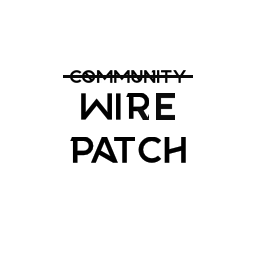
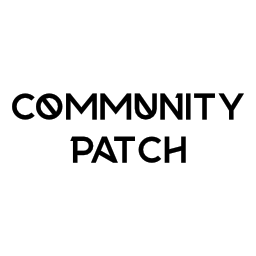
ValheimWirePatches 0.1.1

Changed region(s): [[0.0312, 0.25, 0.9688, 0.4688], [0.4688, 0.5312, 0.5312, 0.5625], [0.2812, 0.5312, 0.3125, 0.5625]]

diff --git a/ValheimWirePatches/src/Plugin.cs b/ValheimWirePatches/src/Plugin.cs
@@ -11,7 +11,7 @@ namespace ValheimWirePatches
     {
         public const string Guid = "wire.valheimwirepatches";
         public const string Name = "Valheim Wire Patches";
-        public const string Version = "0.1.0";
+        public const string Version = "0.1.1";
 
         internal static Plugin Instance;
 

diff --git a/ValheimWirePatches/package/README.md b/ValheimWirePatches/package/README.md
@@ -2,7 +2,7 @@
 
 Fixes for vanilla Valheim bugs I've found. No gameplay changes.
 
-This mod is meant to be temporary. The fixes are here so people can have them now, and I'm hoping they get added to [Valheim Community Patch](https://thunderstore.io/c/valheim/p/MidnightMods/ValheimCommunityPatch/) ([GitHub](https://github.com/MidnightsFX/Valheim-Community-Patch)). Once a fix is in there, it gets removed from here.
+This mod is meant to be temporary. The fixes are here so people can have them now, and I'm hoping they get added to [Valheim Community Patch](https://thunderstore.io/c/valheim/p/MidnightMods/ValheimCommunityPatch/) ([GitHub](https://github.com/MidnightsFX/Valheim-Community-Patch)).
 
 Source code: https://github.com/Krosshair/WireMods/tree/main/ValheimWirePatches
 

diff --git a/ValheimWirePatches/package/CHANGELOG.md b/ValheimWirePatches/package/CHANGELOG.md
@@ -1,3 +1,7 @@
+# 0.1.1
+
+* Icon fixed.
+
 # 0.1.0
 
 * First release.
